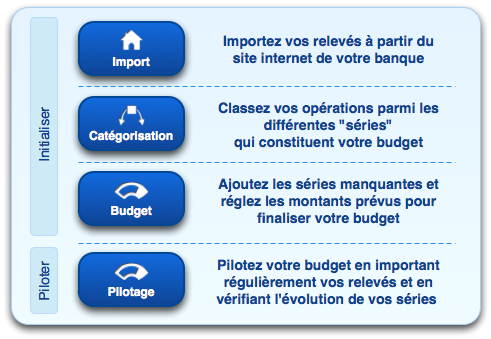
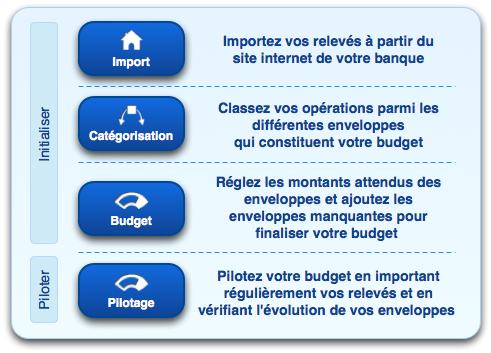
Ajustements aide+images pour renommage serie=>enveloppe

diff --git a/picsou/picsou/src/main/resources/help/fr/welcome.html b/picsou/picsou/src/main/resources/help/fr/welcome.html
@@ -7,11 +7,10 @@
   <img src="help/fr/welcome1.png">
 </div>
 
-<p>CashPilot vous propose une approche innovante pour gérer vos finances&nbsp;:
-  vous modelez votre budget à l'aide d'enveloppes de revenus et de dépenses, et vous importez ensuite
-  régulièrement vos relevés à partir du site internet de votre banque pour vérifier que vos finances
-  suivent bien le plan que vous vous étiez fixé.
-  Vous prenez ainsi le contrôle de vos dépenses pour mener à bien les projets qui vous sont chers.</p>
+<p>CashPilot vous propose de décrire finement votre budget à l'aide d'enveloppes
+  de revenus et de dépenses, pour lesquelles vous fixez les montants attendus chaque mois.
+  Vous importez ensuite régulièrement vos relevés à partir du site internet de votre banque
+  pour vérifier que vos finances suivent bien le plan que vous vous étiez fixé.</p>
 
 <p>Vous allez être guidé à travers les étapes ci-dessous pour initialiser puis piloter votre budget&nbsp;:</p>
 

diff --git a/picsou/picsou/src/test/java/org/designup/picsou/functests/checkers/BankEntityEditionChecker.java b/picsou/picsou/src/test/java/org/designup/picsou/functests/checkers/BankEntityEditionChecker.java
@@ -30,7 +30,7 @@ public class BankEntityEditionChecker extends GuiChecker {
     dialog.getComboBox("bankCombo").select(bank);
     checkBanksEquals("(Select a bank)", "Autre", "AXA Banque", "Banque Populaire", "BNP Paribas",
                      "Caisse d'épargne", "CIC",
-                     "Crédit Agricole", "Crédit Mutuel", "Fortis", "HSBC", "ING Direct", "La Poste", 
+                     "Crédit Agricole", "Crédit Mutuel", "Fortis", "HSBC", "ING Direct", "La Banque Postale", 
                      "LCL",
                      "Société Générale");
     return this;

diff --git a/picsou/picsou/src/main/java/org/designup/picsou/gui/MainPanel.java b/picsou/picsou/src/main/java/org/designup/picsou/gui/MainPanel.java
@@ -230,7 +230,7 @@ public class MainPanel {
 
   private void showInitialMessageIfNeeded() {
     if (!repository.contains(Transaction.TYPE)) {
-      directory.get(HelpService.class).show("intro", parent);
+      directory.get(HelpService.class).show("welcome", parent);
     }
   }
 
